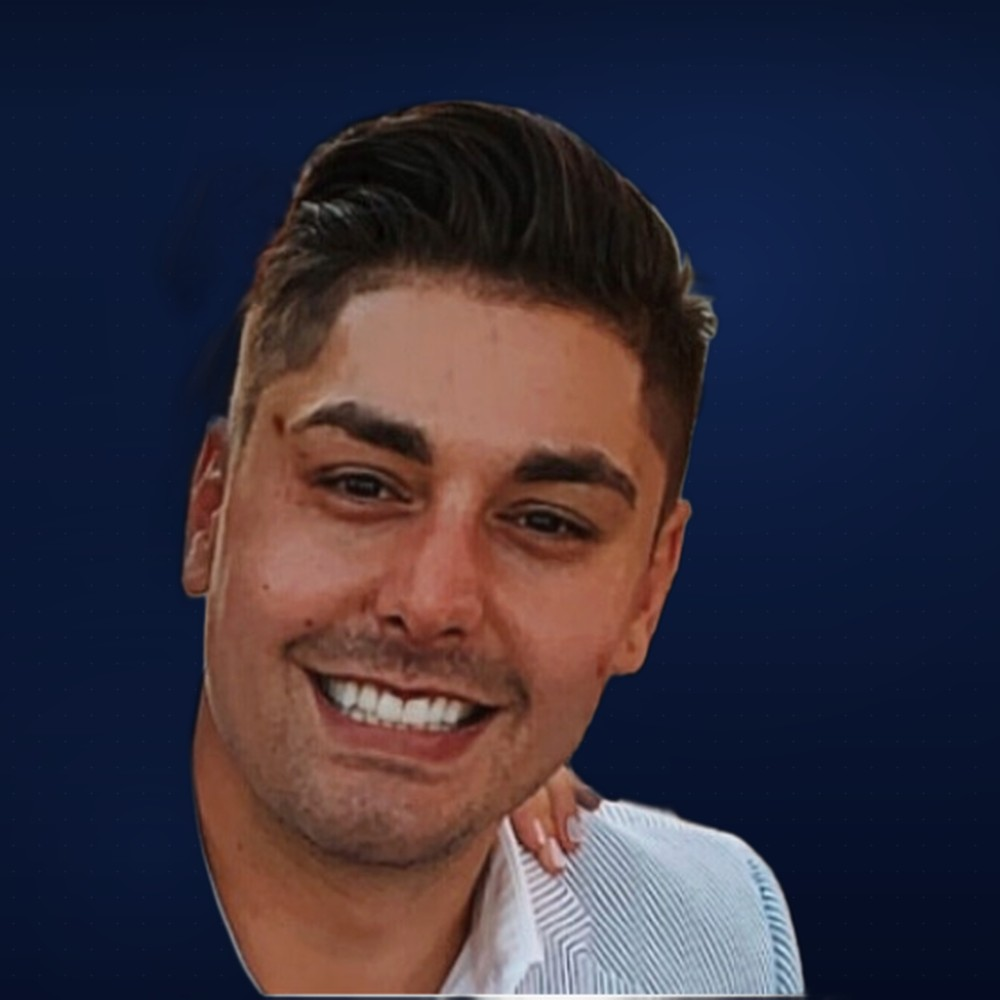
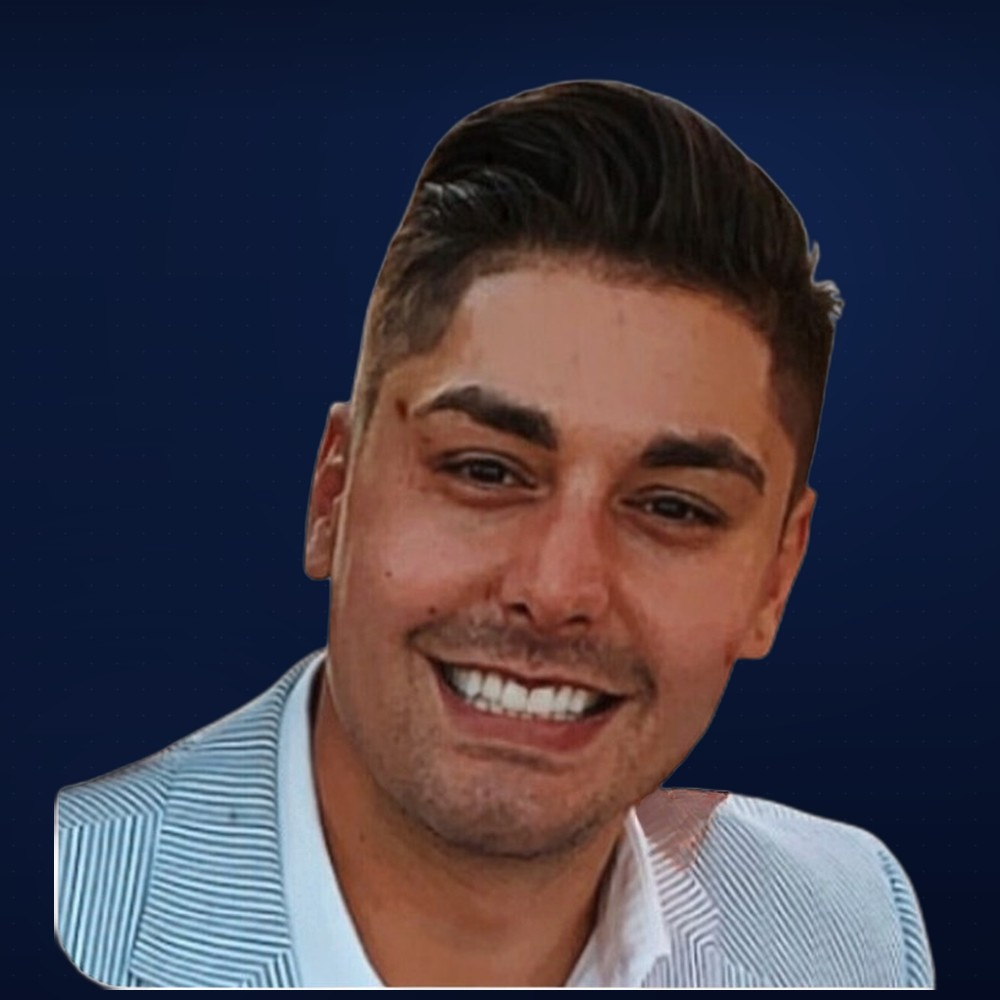
team: new solo Joe photo, Drew pill Gatekeeper -> Vision

diff --git a/index.html b/index.html
@@ -807,9 +807,9 @@
           <div class="team-card__photo">
             <img src="assets/images/team/drew.jpg" alt="Drew Amato" loading="lazy">
             <div class="team-card__overlay" aria-hidden="true">
-              <span class="team-card__world">Gatekeeper</span>
+              <span class="team-card__world">Vision</span>
               <ul class="team-card__caps">
-                <li>Vision &amp; direction</li>
+                <li>Direction &amp; strategy</li>
                 <li>Capital &amp; final calls</li>
                 <li>Founder-level DTC context</li>
                 <li>Technology &amp; product</li>

diff --git a/scripts/build_team_photos.py b/scripts/build_team_photos.py
@@ -214,12 +214,9 @@ def main() -> None:
         ),
         Subject(
             name="joe",
-            src="https://cdn.shopify.com/s/files/1/0561/0530/4256/files/Joe.png?v=1772053276",
-            y_bias=0.04,
+            src=str(ROOT / "assets/images/joe-original.jpg"),
+            y_bias=0.03,
             scale=1.0,
-            # Source photo has an adjacent person on the left. Crop them out before
-            # feeding into rembg so their hair isn't retained.
-            pre_crop=(0.22, 0.05, 0.05, 0.0),
         ),
         Subject(
             name="dakarai",
